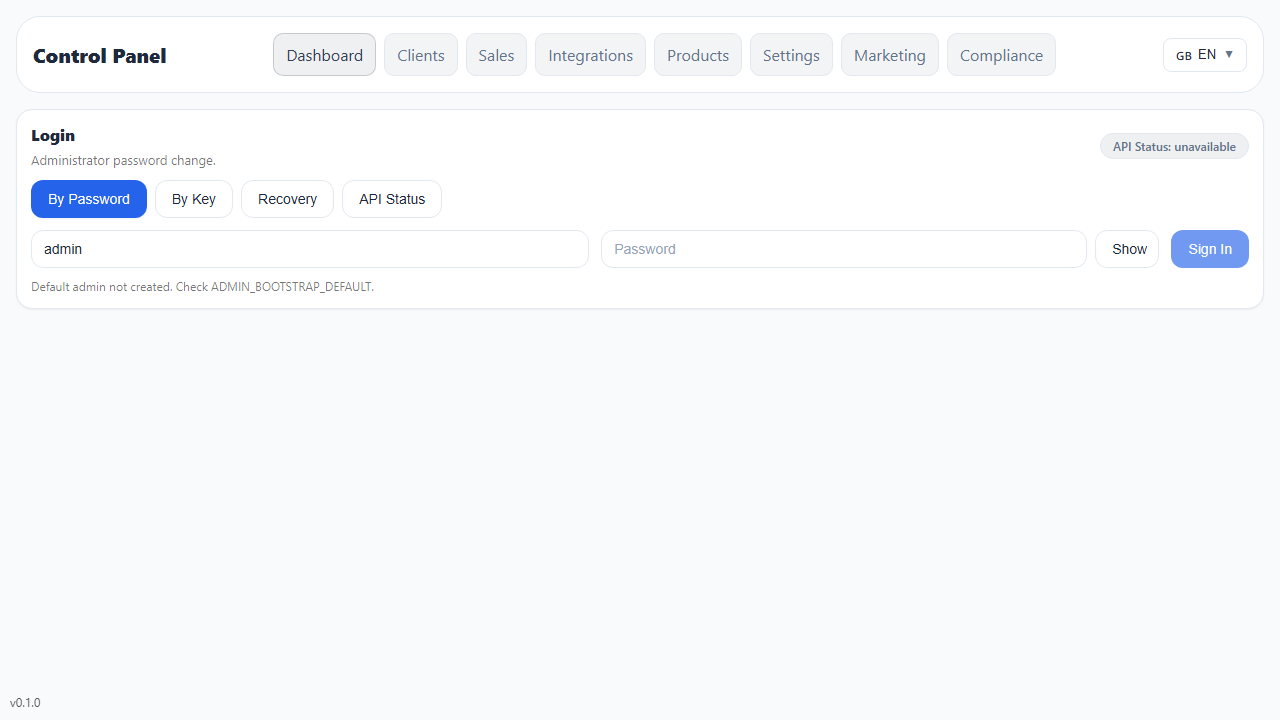
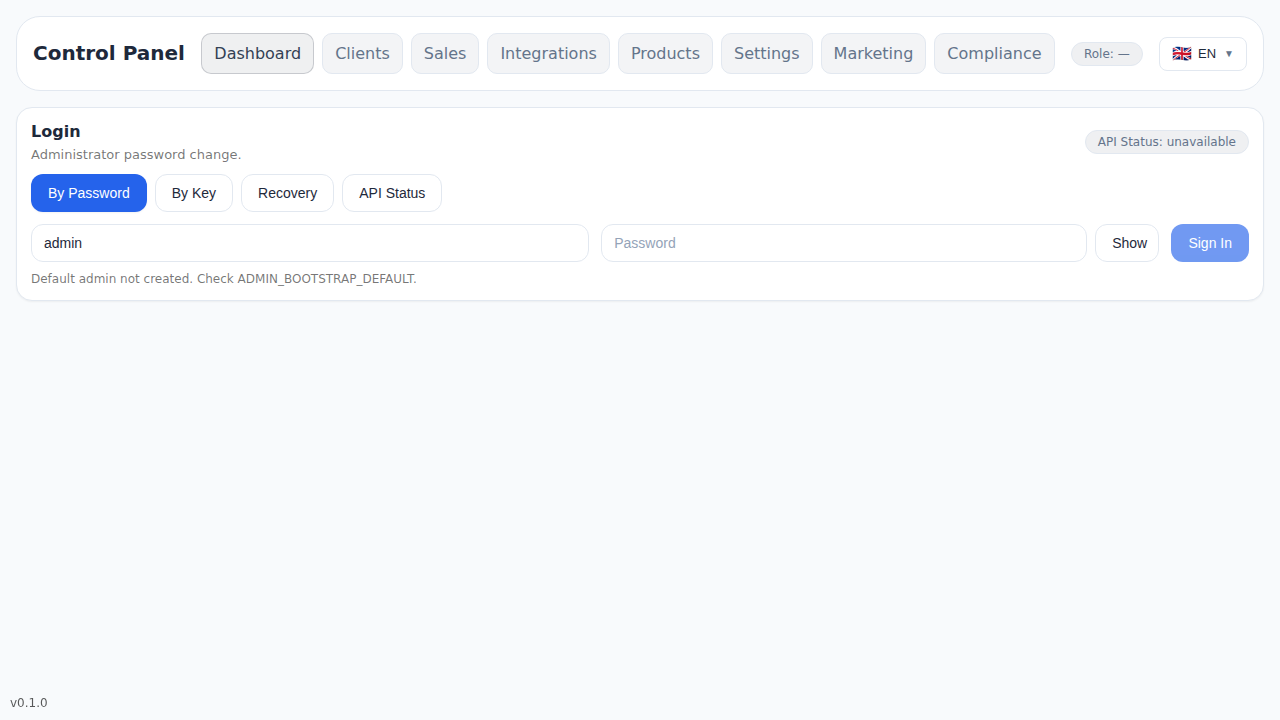
Cascade snapshot 2026-03-11T14:14:46.3903479Z

diff --git a/admin-ui/e2e/utils/test-ids.ts b/admin-ui/e2e/utils/test-ids.ts
@@ -1,12 +1,15 @@
 /**
  * Test ID utilities for consistent E2E testing
- *
- * This file defines test ID patterns that match the actual app components.
- * Based on E2E_TEST_FIX_PLAN.md
+ * 
+ * CRITICAL: Check actual app test IDs before using!
+ * App uses MIXED naming:
+ * - Login: WITH _en suffix (common_input_username_en)
+ * - Navigation: WITHOUT _en suffix (admin_nav_dashboard)
+ * - Dashboard: WITHOUT _en suffix (admin_widget_customers)
  */
 
 export const TestIds = {
-  // Common/Auth form elements (matching app's common_input_*_en pattern)
+  // Common/Auth form elements (WITH _en suffix)
   common: {
     input: {
       username: 'common_input_username_en',
@@ -20,122 +23,42 @@ export const TestIds = {
     },
   },
   
-  // Navigation elements (matching app's admin_nav_* pattern)
+  // Navigation elements (WITHOUT _en suffix)
   nav: {
-    dashboard: 'admin_nav_dashboard_en',
-    customers: 'admin_nav_customers_en',
-    products: 'admin_nav_products_en',
-    pos: 'admin_nav_pos_en',
-    marketing: 'admin_nav_marketing_en',
-    integrations: 'admin_nav_integrations_en',
-    settings: 'admin_nav_settings_en',
-    compliance: 'admin_nav_compliance_en',
-    analytics: 'admin_nav_analytics_en',
+    dashboard: 'admin_nav_dashboard',
+    customers: 'admin_nav_customers',
+    products: 'admin_nav_products',
+    pos: 'admin_nav_pos',
+    marketing: 'admin_nav_marketing',
+    integrations: 'admin_nav_integrations',
+    settings: 'admin_nav_settings',
+    compliance: 'admin_nav_compliance',
+    analytics: 'admin_nav_analytics',
   },
   
-  // Dashboard elements
+  // Dashboard elements (WITHOUT _en suffix)
   dashboard: {
+    root: 'admin-dashboard',
+    title: 'admin-dashboard-title',
     widget: {
-      customers: 'admin_widget_customers_en',
-      products: 'admin_widget_products_en',
-      sales: 'admin_widget_sales_en',
+      customers: 'admin_widget_customers',
+      products: 'admin_widget_products',
+      sales: 'admin_widget_sales',
       operational: 'admin_widget_operational_en',
-      integrations: 'admin_widget_integrations_en',
-      marketing: 'admin_widget_marketing_en',
+      integrations: 'admin_widget_integrations',
+      marketing: 'admin_widget_marketing',
+      performance: 'admin_widget_performance_en',
     },
     button: {
       refresh: 'admin_btn_dashboard_refresh_en',
       export: 'admin_btn_export_csv_en',
-      viewAll: 'admin_widget_refresh_export_en',
     },
   },
   
-  // Customer management
+  // Customer management (WITHOUT _en suffix)
   customer: {
-    button: {
-      new: 'admin_btn_new_customer_en',
-      search: 'admin_btn_customer_search_en',
-      reset: 'admin_btn_customer_reset_en',
-      create: 'admin_btn_create_customer_en',
-    },
-    input: {
-      search: 'admin_input_customer_search_en',
-      fullname: 'admin_input_customer_fullname_en',
-      phone: 'admin_input_customer_phone_en',
-      notes: 'admin_input_customer_notes_en',
-    },
-  },
-  
-  // Product management
-  product: {
-    button: {
-      reload: 'admin_btn_products_reload_en',
-      import: 'admin_btn_products_import_en',
-      create: 'admin_btn_create_product_en',
-    },
-    input: {
-      code: 'admin_input_product_code_en',
-      name: 'admin_input_product_name_en',
-      kind: 'admin_input_product_kind_en',
-      price: 'admin_input_product_price_en',
-    },
-  },
-  
-  // POS interface
-  pos: {
-    button: {
-      newSale: 'operator_btn_new_sale_en',
-      identifyCustomer: 'operator_btn_identify_customer_en',
-      catalog: 'operator_btn_catalog_en',
-      modePhone: 'operator_btn_mode_phone_en',
-      modeName: 'operator_btn_mode_name_en',
-      modeQr: 'operator_btn_mode_qr_en',
-      identify: 'operator_btn_identify_en',
-      reloadProducts: 'operator_btn_reload_products_en',
-      addToCart: 'operator_btn_add_to_cart_en',
-      completeSale: 'operator_btn_complete_sale_en',
-    },
-    input: {
-      bonus: 'operator_input_bonus_en',
-      identify: 'operator_input_identify_en',
-    },
-  },
-  
-  // Settings
-  settings: {
-    button: {
-      save: 'settings_btn_save_en',
-      cancel: 'settings_btn_cancel_en',
-    },
-  },
-  
-  // Operator dashboard
-  operator: {
-    widget: {
-      quickActions: 'operator_widget_quick_actions_en',
-      shiftStats: 'operator_widget_shift_stats_en',
-      recentTransactions: 'operator_widget_recent_transactions_en',
-      emptyState: 'operator_widget_empty_state_en',
-    },
-    button: {
-      firstSale: 'operator_btn_first_sale_en',
-      newOperation: 'operator_btn_new_operation_en',
-    },
-  },
-  
-  // Manager dashboard
-  manager: {
-    widget: {
-      kpi: 'manager_widget_kpi_en',
-      activeCampaigns: 'manager_widget_active_campaigns_en',
-      recentEvents: 'manager_widget_recent_events_en',
-      salesTrend: 'manager_widget_sales_trend_en',
-      topProducts: 'manager_widget_top_products_en',
-    },
-    button: {
-      manageCampaigns: 'manager_btn_manage_campaigns_en',
-      viewAllEvents: 'manager_btn_view_all_events_en',
-      analytics: 'manager_btn_analytics_en',
-    },
+    search: 'customers_search_input',
+    searchButton: 'customers_search_button',
+    clearButton: 'customers_clear_button',
   },
 } as const;

diff --git a/admin-ui/e2e/localization/language-support.spec.ts b/admin-ui/e2e/localization/language-support.spec.ts
@@ -77,29 +77,29 @@ test.describe('Language Support', () => {
     await page.waitForURL('/admin/dashboard');
     
     // Test navigation in English using correct test IDs
-    await expect(page.getByTestId('admin_nav_dashboard_en')).toBeVisible();
-    await expect(page.getByTestId('admin_nav_customers_en')).toBeVisible();
-    await expect(page.getByTestId('admin_nav_products_en')).toBeVisible();
-    await expect(page.getByTestId('admin_nav_pos_en')).toBeVisible();
-    await expect(page.getByTestId('admin_nav_marketing_en')).toBeVisible();
-    await expect(page.getByTestId('admin_nav_integrations_en')).toBeVisible();
-    await expect(page.getByTestId('admin_nav_settings_en')).toBeVisible();
+    await expect(page.getByTestId('admin_nav_dashboard')).toBeVisible();
+    await expect(page.getByTestId('admin_nav_customers')).toBeVisible();
+    await expect(page.getByTestId('admin_nav_products')).toBeVisible();
+    await expect(page.getByTestId('admin_nav_pos')).toBeVisible();
+    await expect(page.getByTestId('admin_nav_marketing')).toBeVisible();
+    await expect(page.getByTestId('admin_nav_integrations')).toBeVisible();
+    await expect(page.getByTestId('admin_nav_settings')).toBeVisible();
     
     // Change to Russian
     await page.addInitScript(() => {
-      window.localStorage.setItem('language', 'ru');
+    window.localStorage.setItem('language', 'ru');
     });
     
     // Refresh page to apply language change
     await page.reload();
     
     // Verify navigation items are still visible (they have test IDs)
-    await expect(page.getByTestId('admin_nav_dashboard_en')).toBeVisible();
-    await expect(page.getByTestId('admin_nav_customers_en')).toBeVisible();
-    await expect(page.getByTestId('admin_nav_products_en')).toBeVisible();
-    await expect(page.getByTestId('admin_nav_pos_en')).toBeVisible();
-    await expect(page.getByTestId('admin_nav_marketing_en')).toBeVisible();
-    await expect(page.getByTestId('admin_nav_integrations_en')).toBeVisible();
-    await expect(page.getByTestId('admin_nav_settings_en')).toBeVisible();
+    await expect(page.getByTestId('admin_nav_dashboard')).toBeVisible();
+    await expect(page.getByTestId('admin_nav_customers')).toBeVisible();
+    await expect(page.getByTestId('admin_nav_products')).toBeVisible();
+    await expect(page.getByTestId('admin_nav_pos')).toBeVisible();
+    await expect(page.getByTestId('admin_nav_marketing')).toBeVisible();
+    await expect(page.getByTestId('admin_nav_integrations')).toBeVisible();
+    await expect(page.getByTestId('admin_nav_settings')).toBeVisible();
   });
 });

diff --git a/admin-ui/e2e/functional/role-config.spec.ts b/admin-ui/e2e/functional/role-config.spec.ts
@@ -8,7 +8,7 @@ test.describe('Role Configuration', () => {
     await page.getByTestId('common_input_password_en').fill('admin');
     await page.getByTestId('common_btn_password_login_en').click();
     
-    // Wait for login to complete by checking for username in the header
+    // Wait for login to complete
     await expect(page.locator('.font-medium.text-gray-900:has-text("admin")')).toBeVisible({
       timeout: 15000,
     });
@@ -18,12 +18,11 @@ test.describe('Role Configuration', () => {
     await expect(page.locator('text=Управление доступом (Роли)')).toBeVisible();
 
     // 3. Find "product.read" row and "Оператор" column
-    // The table headers are in <thead>
     const headers = page.locator('table thead th');
     const count = await headers.count();
     let operatorColIndex = -1;
     for (let i = 0; i < count; i++) {
- await headers.nth      const text =(i).innerText();
+      const text = await headers.nth(i).innerText();
       if (text === 'Оператор') {
         operatorColIndex = i;
         break;
@@ -31,44 +30,43 @@ test.describe('Role Configuration', () => {
     }
     expect(operatorColIndex).toBeGreaterThan(-1);
 
-    // Find the row with "product.read"
+    // 4. Find the row with "product.read"
     const row = page.locator('tr:has-text("product.read")');
-    // The checkbox is in the cell corresponding to operatorColIndex
     const checkbox = row.locator('td').nth(operatorColIndex).locator('input[type="checkbox"]');
 
     // Ensure it is checked initially (default)
     await expect(checkbox).toBeChecked();
 
-    // 4. Uncheck it
+    // 5. Uncheck it
     await checkbox.uncheck();
     await expect(checkbox).not.toBeChecked();
     await page.waitForTimeout(500);
     await page.click('button:has-text("Обновить")');
     await expect(checkbox).not.toBeChecked();
 
-    // 5. Logout
+    // 6. Logout
     await page.getByTestId('admin_btn_logout_en').click();
     await expect(page.locator('text=Вход')).toBeVisible();
 
-    // 6. Login as operator (using data-testid)
+    // 7. Login as operator
     await page.getByTestId('common_input_username_en').fill('operator');
     await page.getByTestId('common_input_password_en').fill('operator');
     await page.getByTestId('common_btn_password_login_en').click();
 
-    // 7. Verify "Товары" tab is NOT visible
+    // 8. Verify "Товары" tab is NOT visible
     await expect(page.locator('.tab:has-text("Товары")')).not.toBeVisible();
 
-    // 8. Logout
+    // 9. Logout
     await page.getByTestId('admin_btn_logout_en').click();
 
-    // 9. Login as owner to restore (using data-testid)
+    // 10. Login as owner to restore
     await page.getByTestId('common_input_username_en').fill('admin');
     await page.getByTestId('common_input_password_en').fill('admin');
     await page.getByTestId('common_btn_password_login_en').click();
 
     await page.getByTestId('admin_nav_settings_en').click();
 
-    // Re-locate elements as page reloaded
+    // 11. Re-check the permission
     const headers2 = page.locator('table thead th');
     const row2 = page.locator('tr:has-text("product.read")');
     const checkbox2 = row2.locator('td').nth(operatorColIndex).locator('input[type="checkbox"]');
@@ -76,7 +74,7 @@ test.describe('Role Configuration', () => {
     await checkbox2.check();
     await expect(checkbox2).toBeChecked();
 
-    // 10. Logout and verify operator access restored
+    // 12. Logout and verify operator access restored
     await page.getByTestId('admin_btn_logout_en').click();
     await page.getByTestId('common_input_username_en').fill('operator');
     await page.getByTestId('common_input_password_en').fill('operator');

diff --git a/admin-ui/e2e/smoke/quick-nav.spec.ts b/admin-ui/e2e/smoke/quick-nav.spec.ts
@@ -5,31 +5,31 @@ test('quick: check navigation', async ({ page }) => {
 
   await page.waitForTimeout(3000);
 
-  const dashboardNav = page.getByTestId('admin_nav_dashboard_en');
+  const dashboardNav = page.getByTestId('admin_nav_dashboard');
   await dashboardNav.waitFor({ timeout: 5000 });
 
   expect(dashboardNav).toBeVisible();
   console.log('Dashboard nav found');
 
-  const customersNav = page.getByTestId('admin_nav_customers_en');
+  const customersNav = page.getByTestId('admin_nav_customers');
   await customersNav.waitFor({ timeout: 5000 });
 
   expect(customersNav).toBeVisible();
   console.log('Customers nav found');
 
-  const productsNav = page.getByTestId('admin_nav_products_en');
+  const productsNav = page.getByTestId('admin_nav_products');
   await productsNav.waitFor({ timeout: 5000 });
 
   expect(productsNav).toBeVisible();
   console.log('Products nav found');
 
-  const integrationsNav = page.getByTestId('admin_nav_integrations_en');
+  const integrationsNav = page.getByTestId('admin_nav_integrations');
   await integrationsNav.waitFor({ timeout: 5000 });
 
   expect(integrationsNav).toBeVisible();
   console.log('Integrations nav found');
 
-  const complianceNav = page.getByTestId('admin_nav_compliance_en');
+  const complianceNav = page.getByTestId('admin_nav_compliance');
   await complianceNav.waitFor({ timeout: 5000 });
 
   expect(complianceNav).toBeVisible();

diff --git a/admin-ui/e2e/smoke/smoke.spec.ts b/admin-ui/e2e/smoke/smoke.spec.ts
@@ -3,17 +3,17 @@ import { login } from '../_shared';
 
 test('admin can view dashboard', async ({ page }) => {
   await login(page, 'admin');
-  await expect(page.getByTestId('admin_nav_dashboard_en')).toBeVisible();
+  await expect(page.getByTestId('admin_nav_dashboard')).toBeVisible();
 });
 
 test('admin can resize widgets', async ({ page }) => {
   await login(page, 'admin');
-  const widget = page.getByTestId('admin_widget_customers_en');
+  const widget = page.getByTestId('admin_widget_customers');
   await expect(widget).toBeVisible();
 });
 
 test('admin can toggle widget compact mode', async ({ page }) => {
   await login(page, 'admin');
   // Check if dashboard has expected widgets
-  await expect(page.getByTestId('admin_widget_customers_en')).toBeVisible();
+  await expect(page.getByTestId('admin_widget_customers')).toBeVisible();
 });

diff --git a/admin-ui/e2e/smoke/debug-dashboard.spec.ts b/admin-ui/e2e/smoke/debug-dashboard.spec.ts
@@ -30,7 +30,7 @@ test('debug: check dashboard after login', async ({ page }) => {
   }
 
   // Check for dashboard elements
-  const dashboardNav = page.getByTestId('admin_nav_dashboard_en');
+  const dashboardNav = page.getByTestId('admin_nav_dashboard');
   try {
     await dashboardNav.waitFor({ timeout: 5000 });
     console.log('Dashboard nav visible');
@@ -39,7 +39,7 @@ test('debug: check dashboard after login', async ({ page }) => {
   }
 
   // Check customers widget
-  const customersWidget = page.getByTestId('admin_widget_customers_en');
+  const customersWidget = page.getByTestId('admin_widget_customers');
   try {
     await customersWidget.waitFor({ timeout: 5000 });
     console.log('Customers widget visible');

diff --git a/admin-ui/e2e/smoke/quick-login.spec.ts b/admin-ui/e2e/smoke/quick-login.spec.ts
@@ -13,7 +13,7 @@ test('quick: login and check dashboard', async ({ page }) => {
   expect(currentUrl).toContain('/admin');
 
   // Check for dashboard content
-  const dashboardElement = page.getByTestId('admin_nav_dashboard_en');
+  const dashboardElement = page.getByTestId('admin_nav_dashboard');
   await dashboardElement.waitFor({ timeout: 5000 });
 
   expect(dashboardElement).toBeVisible();

diff --git a/admin-ui/e2e/smoke/screenshots.spec.ts b/admin-ui/e2e/smoke/screenshots.spec.ts
@@ -5,7 +5,7 @@ test('capture screenshots with production data', async ({ page }) => {
   await login(page, 'operator');
 
   // Wait for navigation to be ready using stable test id selector.
-  await expect(page.getByTestId('admin_nav_dashboard_en')).toBeVisible({ timeout: 15000 });
+  await expect(page.getByTestId('admin_nav_dashboard')).toBeVisible({ timeout: 15000 });
 
   // Helper to capture page
   async function capturePage(tabText: string, fileName: string) {